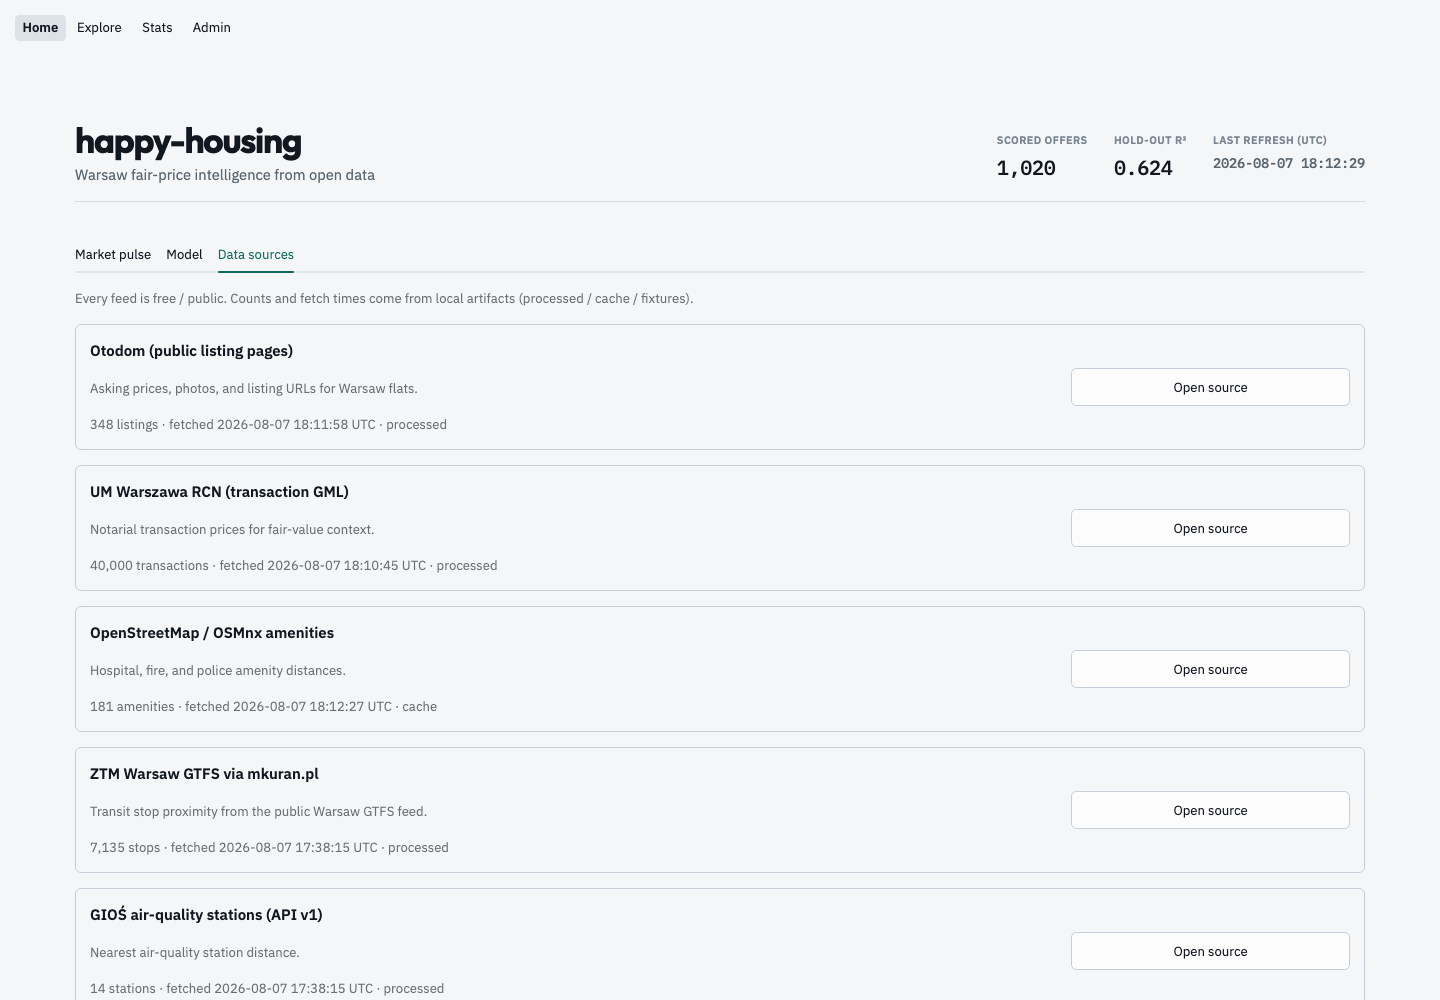
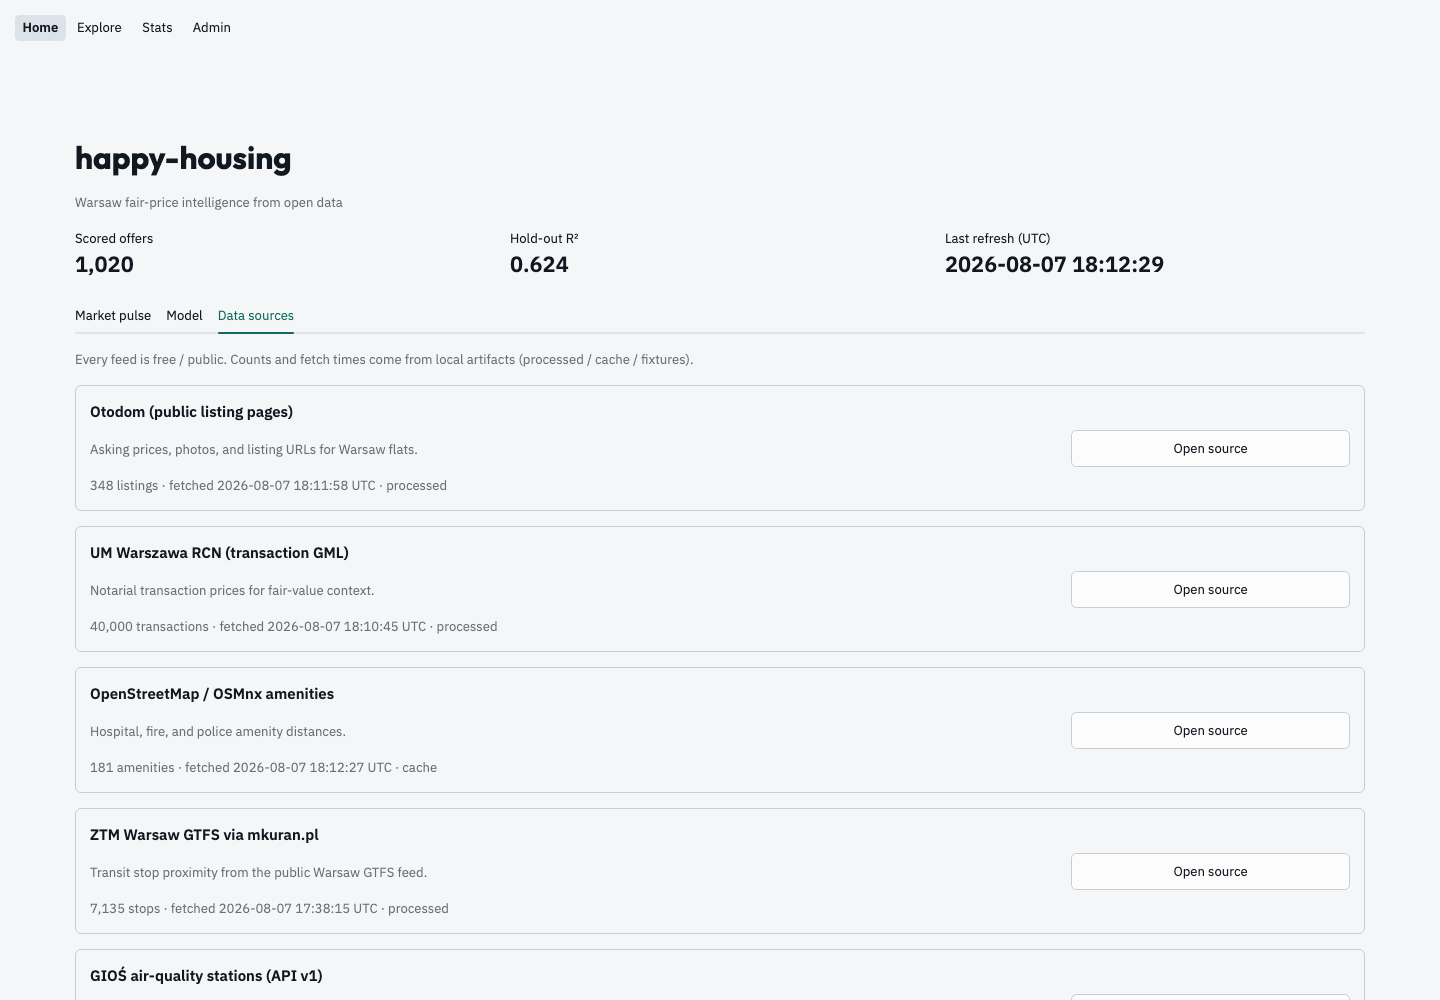
refactor(app): drop custom CSS; document Streamlit-only styling
Replace hero HTML/CSS, inline delta styles, and news HTML with stock
Streamlit widgets and GFM markdown. Record the no-custom-CSS rule in
AGENTS.md and .cursor/rules/no-custom-css.mdc; refresh Home/Offer shots.

diff --git a/src/happy_housing/app/home_hero.py b/src/happy_housing/app/home_hero.py
@@ -1,9 +1,8 @@
-"""Home hero markup helpers (pure; Streamlit renders the HTML)."""
+"""Home hero metric formatting (pure; Streamlit widgets render the UI)."""
 
 from __future__ import annotations
 
 from dataclasses import dataclass
-from html import escape
 
 
 @dataclass(frozen=True, slots=True)
@@ -30,91 +29,3 @@ def format_hero_stats(
         r2_label=r2_label,
         refreshed_label=refreshed_label,
     )
-
-
-def hero_html(stats: HeroStats) -> str:
-    """Compact brand strip HTML — no card chrome, no badge pills."""
-    offers = escape(stats.offers_label)
-    r2 = escape(stats.r2_label)
-    refreshed = escape(stats.refreshed_label)
-    return f"""
-<div class="hh-hero">
-  <div class="hh-hero__brand">
-    <p class="hh-hero__name">happy-housing</p>
-    <p class="hh-hero__tag">Warsaw fair-price intelligence from open data</p>
-  </div>
-  <dl class="hh-hero__stats">
-    <div>
-      <dt>Scored offers</dt>
-      <dd>{offers}</dd>
-    </div>
-    <div>
-      <dt>Hold-out R²</dt>
-      <dd>{r2}</dd>
-    </div>
-    <div>
-      <dt>Last refresh (UTC)</dt>
-      <dd class="hh-hero__muted">{refreshed}</dd>
-    </div>
-  </dl>
-</div>
-<style>
-  .hh-hero {{
-    display: flex;
-    flex-wrap: wrap;
-    align-items: flex-end;
-    justify-content: space-between;
-    gap: 1.25rem 2rem;
-    margin: 0 0 1.25rem 0;
-    padding: 0.15rem 0 1.1rem 0;
-    border-bottom: 1px solid rgba(24, 32, 29, 0.12);
-  }}
-  .hh-hero__name {{
-    margin: 0;
-    font-family: "Outfit", "IBM Plex Sans", sans-serif;
-    font-size: clamp(1.85rem, 2.6vw, 2.35rem);
-    font-weight: 650;
-    letter-spacing: -0.035em;
-    line-height: 1.05;
-    color: #12181f;
-  }}
-  .hh-hero__tag {{
-    margin: 0.35rem 0 0 0;
-    max-width: 28rem;
-    font-size: 0.98rem;
-    line-height: 1.35;
-    color: #5a6670;
-  }}
-  .hh-hero__stats {{
-    display: flex;
-    flex-wrap: wrap;
-    gap: 1.1rem 1.75rem;
-    margin: 0;
-  }}
-  .hh-hero__stats div {{
-    margin: 0;
-  }}
-  .hh-hero__stats dt {{
-    margin: 0;
-    font-size: 0.72rem;
-    font-weight: 550;
-    letter-spacing: 0.04em;
-    text-transform: uppercase;
-    color: #7a8792;
-  }}
-  .hh-hero__stats dd {{
-    margin: 0.15rem 0 0 0;
-    font-family: "IBM Plex Mono", ui-monospace, monospace;
-    font-size: 1.35rem;
-    font-weight: 500;
-    font-variant-numeric: tabular-nums;
-    letter-spacing: -0.02em;
-    color: #12181f;
-  }}
-  .hh-hero__muted {{
-    font-size: 0.92rem !important;
-    font-weight: 450 !important;
-    color: #5a6670 !important;
-  }}
-</style>
-"""

diff --git a/src/happy_housing/app/page_explore.py b/src/happy_housing/app/page_explore.py
@@ -47,13 +47,13 @@ from happy_housing.app.maps import (
     render_deck,
 )
 from happy_housing.app.offer_display import (
-    delta_hex,
+    delta_band,
     livability_rows,
     offer_fact_rows,
 )
 from happy_housing.app.star_news import (
     StarNewsItem,
-    format_change_html,
+    format_change_markdown,
     load_news,
     save_news,
     sync_starred_news,
@@ -281,24 +281,29 @@ def _ensure_description(row: pd.Series) -> str:
 
 
 def _price_metrics(row: pd.Series) -> None:
-    """Listing / model / coloured delta metrics."""
+    """Listing / model / delta metrics via Streamlit widgets only."""
     listing = float(row["price_per_m2"])
     model = float(row["model_price_per_m2"])
     delta = float(row["delta_price_per_m2"])
-    color = delta_hex(delta)
+    band = delta_band(delta)
+    if band == "green":
+        delta_label, delta_color = "underpriced", "normal"
+    elif band == "red":
+        delta_label, delta_color = "overpriced", "inverse"
+    else:
+        delta_label, delta_color = "fair", "off"
     c1, c2, c3 = st.columns(3)
     with c1.container(border=True):
         st.metric("Listing zł/m²", f"{listing:,.0f}")
     with c2.container(border=True):
         st.metric("Model zł/m²", f"{model:,.0f}")
     with c3.container(border=True):
-        st.markdown("**Delta (listing - model)**")
-        st.markdown(
-            f"<p style='color:{color};font-size:1.75rem;font-weight:700;"
-            f"margin:0'>{delta:+,.0f}</p>"
-            f"<p style='color:#6B7280;font-size:0.85rem;margin:0'>"
-            "green underpriced · yellow fair · red overpriced</p>",
-            unsafe_allow_html=True,
+        st.metric(
+            "Delta (listing - model)",
+            f"{delta:+,.0f}",
+            delta=delta_label,
+            delta_color=delta_color,
+            help="Negative = underpriced · near zero = fair · positive = overpriced",
         )
 
 
@@ -597,7 +602,13 @@ def _tab_news(
                 )
             else:
                 for change in item.changes:
-                    st.html(format_change_html(change.field, change.old, change.new))
+                    st.markdown(
+                        format_change_markdown(
+                            change.field,
+                            change.old,
+                            change.new,
+                        )
+                    )
 
 
 def render_explore() -> None:

diff --git a/src/happy_housing/app/star_news.py b/src/happy_housing/app/star_news.py
@@ -7,7 +7,6 @@ import logging
 import uuid
 from dataclasses import asdict, dataclass, field
 from datetime import UTC, datetime
-from html import escape
 from pathlib import Path
 from typing import Any
 
@@ -254,18 +253,12 @@ def format_value(field: str, value: Any) -> str:
     return str(value)
 
 
-def format_change_html(field: str, old: Any, new: Any) -> str:
-    """HTML line with strikethrough old value and emphasized new value."""
-    label = escape(_FIELD_LABELS.get(field, field))
-    old_s = escape(format_value(field, old))
-    new_s = escape(format_value(field, new))
-    return (
-        f'<div class="hh-news-change">'
-        f"<strong>{label}</strong>: "
-        f'<span style="text-decoration: line-through; opacity: 0.65">{old_s}</span>'
-        f' → <span style="font-weight: 650">{new_s}</span>'
-        f"</div>"
-    )
+def format_change_markdown(field: str, old: Any, new: Any) -> str:
+    """Markdown line with strikethrough old value and bold new value."""
+    label = _FIELD_LABELS.get(field, field)
+    old_s = format_value(field, old)
+    new_s = format_value(field, new)
+    return f"**{label}:** ~~{old_s}~~ → **{new_s}**"
 
 
 def sync_starred_news(

diff --git a/src/happy_housing/app/page_home.py b/src/happy_housing/app/page_home.py
@@ -17,7 +17,7 @@ from happy_housing.app.data import (
     processed_dir,
     scored_path,
 )
-from happy_housing.app.home_hero import format_hero_stats, hero_html
+from happy_housing.app.home_hero import format_hero_stats
 from happy_housing.app.home_stats import counts_frame, market_summary
 from happy_housing.app.metadata import (
     DEFAULT_METHODOLOGY,
@@ -34,8 +34,14 @@ logger = logging.getLogger(__name__)
 
 
 def _hero(refreshed: str | None, n_offers: int, r2: float | None) -> None:
-    """Top brand strip — wordmark + quiet metrics, no card chrome."""
-    st.html(hero_html(format_hero_stats(refreshed, n_offers, r2)))
+    """Top brand strip — title, tagline, and Streamlit metrics only."""
+    stats = format_hero_stats(refreshed, n_offers, r2)
+    st.title("happy-housing")
+    st.caption("Warsaw fair-price intelligence from open data")
+    c1, c2, c3 = st.columns(3)
+    c1.metric("Scored offers", stats.offers_label)
+    c2.metric("Hold-out R²", stats.r2_label)
+    c3.metric("Last refresh (UTC)", stats.refreshed_label)
 
 
 def _kpi_strip(summary: dict[str, Any], duration_s: float | None) -> None:

diff --git a/tests/app/test_star_news.py b/tests/app/test_star_news.py
@@ -7,7 +7,7 @@ from pathlib import Path
 import pandas as pd
 
 from happy_housing.app.star_news import (
-    format_change_html,
+    format_change_markdown,
     load_news,
     load_snapshots,
     sync_starred_news,
@@ -118,9 +118,10 @@ def test_sync_reports_removed_starred_offer(tmp_path: Path) -> None:
     assert items[0].kind == "removed"
 
 
-def test_format_change_html_strikes_old_value() -> None:
-    html = format_change_html("price_pln", 900_000.0, 850_000.0)
-    assert "line-through" in html
-    assert "900,000" in html
-    assert "850,000" in html
-    assert "Price (PLN)" in html
+def test_format_change_markdown_strikes_old_value() -> None:
+    text = format_change_markdown("price_pln", 900_000.0, 850_000.0)
+    assert "~~900,000~~" in text
+    assert "**850,000**" in text
+    assert "Price (PLN)" in text
+    assert "style=" not in text
+    assert "<" not in text

diff --git a/tests/app/test_home_hero.py b/tests/app/test_home_hero.py
@@ -2,7 +2,7 @@
 
 from __future__ import annotations
 
-from happy_housing.app.home_hero import format_hero_stats, hero_html
+from happy_housing.app.home_hero import format_hero_stats
 
 
 def test_format_hero_stats_formats_counts_and_r2() -> None:
@@ -21,12 +21,3 @@ def test_format_hero_stats_handles_missing() -> None:
     assert stats.offers_label == "0"
     assert stats.r2_label == "—"
     assert stats.refreshed_label == "—"
-
-
-def test_hero_html_includes_brand_and_stats() -> None:
-    stats = format_hero_stats(refreshed=None, n_offers=12, r2=0.5)
-    html = hero_html(stats)
-    assert "happy-housing" in html
-    assert "12" in html
-    assert "0.500" in html
-    assert "badge" not in html.lower()

diff --git a/AGENTS.md b/AGENTS.md
@@ -18,6 +18,7 @@ Configs → `configs/experiment.yaml` · MLflow UI → `make mlflow` · deps →
 - No force push; no `git commit --amend` unless user rules allow
 - **Settings for every new feature:** when adding user-facing behaviour (models, memory, filters, AI, scrapers, …), add Admin Settings controls in the matching tab (General / AI / Stars & News / Recommendations / Stats / Pipeline or a new tab). Persist tunables via `app_settings` (or a dedicated store), expose clear/reset/retrain actions where relevant, and **never** dump raw settings JSON in the UI.
 - **README screenshots on important ship:** when shipping a user-visible feature (new page/tab, major Explore surface, Admin capability, Home/Stats UX), refresh `docs/screenshots/` (`make app` + `uv run python scripts/capture_readme_screenshots.py`) and update `README.md` so the App tour matches the live UI. Skip for pure refactors, tests, or invisible pipeline internals.
+- **No custom CSS:** Streamlit UI = stock widgets + `.streamlit/config.toml` theme only. Never inject `<style>`, inline `style=`, `unsafe_allow_html` for look-and-feel, or `st.html` chrome. Prefer `st.metric` / GFM markdown / columns / tabs. See `.cursor/rules/no-custom-css.mdc`.
 
 Repo-specific gotcha: experiment settings load from YAML via `load_experiment_config`; extend `configs/experiment.yaml` and `ExperimentConfig` together. MLflow artifacts (`mlruns/`, `mlruns.db`) are gitignored. App behaviour tweaks live in `data/processed/app_settings.json` (Admin UI only).
 
